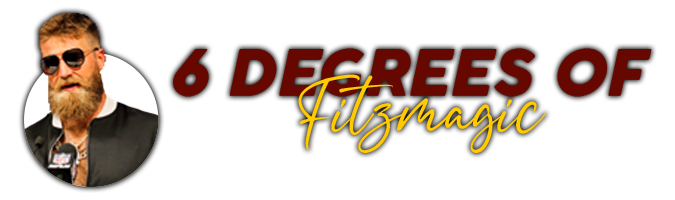
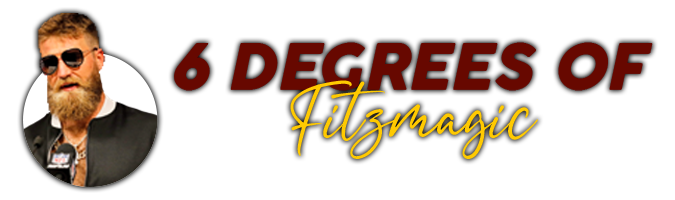
new header

diff --git a/assets/stylesheets/main.css b/assets/stylesheets/main.css
@@ -124,8 +124,8 @@ body{
     display: block;
     margin-left: auto;
     margin-right: auto;
-    max-width: 80%;
-    height: auto;
+    max-width: auto;
+    height: 95%;
   }
 
 @media only screen and (max-width: 725px) {
